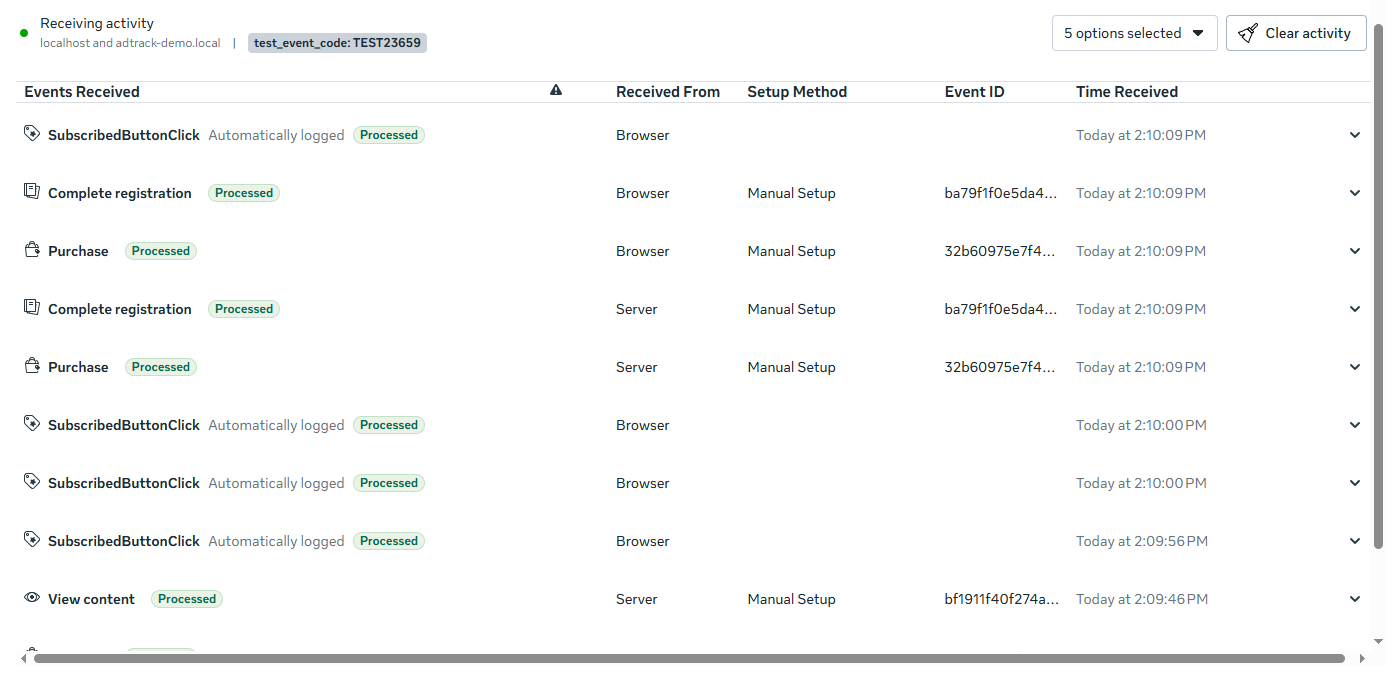
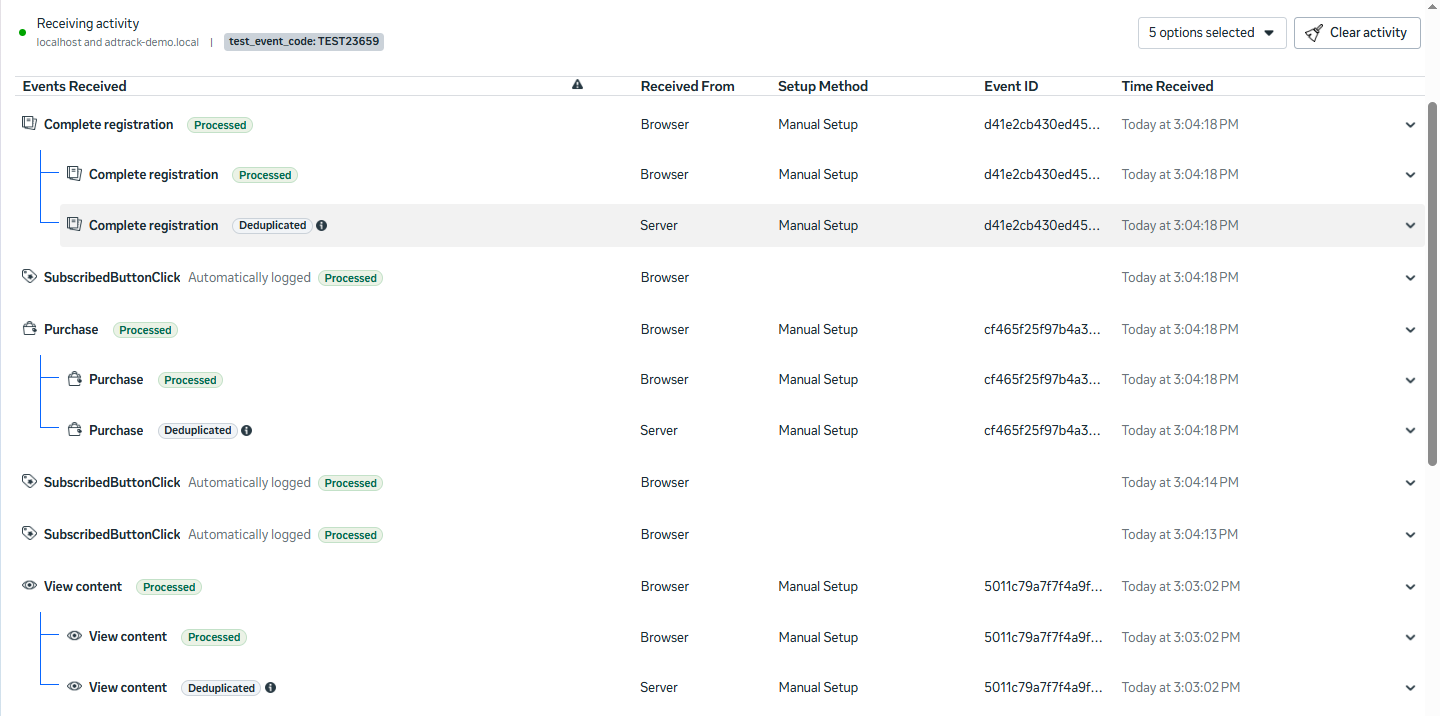
Full-funnel dedup screenshot with Meta's Deduplicated label

diff --git a/README.md b/README.md
@@ -35,15 +35,22 @@ counts one conversion, not two.
 
 ![Deduplication](docs/dedup.png)
 
-*Same `event_id`, received from Browser and from Server. One conversion.*
+*The full funnel — `View content`, `Complete registration`, `Purchase`. Each one
+arrives twice: from the Browser and from the Server, sharing one `event_id`.
+Meta's own **Deduplicated** label confirms it counts one conversion, not two.*
 
 ### Why server-side tracking exists
 
-In the same screenshot: `View content` arrived from the **Server only** — the
-browser copy never fired.
+On the very first run of this landing page, `View content` reached Meta from the
+**server only**. The browser copy never fired — the Pixel had not finished
+initialising when the event triggered, so `fbq` was lost. The `fetch` to the
+collector was not, because it does not depend on the Pixel.
 
-This was not staged. It happened on the first run. Ad blocker, slow pixel, ITP,
-cookie policy — the cause doesn't matter. The conversion survived anyway.
+Ad blocker, slow pixel, ITP, cookie policy — the cause doesn't matter. The
+browser event vanished and the conversion survived anyway.
+
+That is the entire argument for server-side tracking, and it happened by
+accident on the first attempt rather than being staged for the demo.
 
 ### Losses are caught, named, and priced
 
